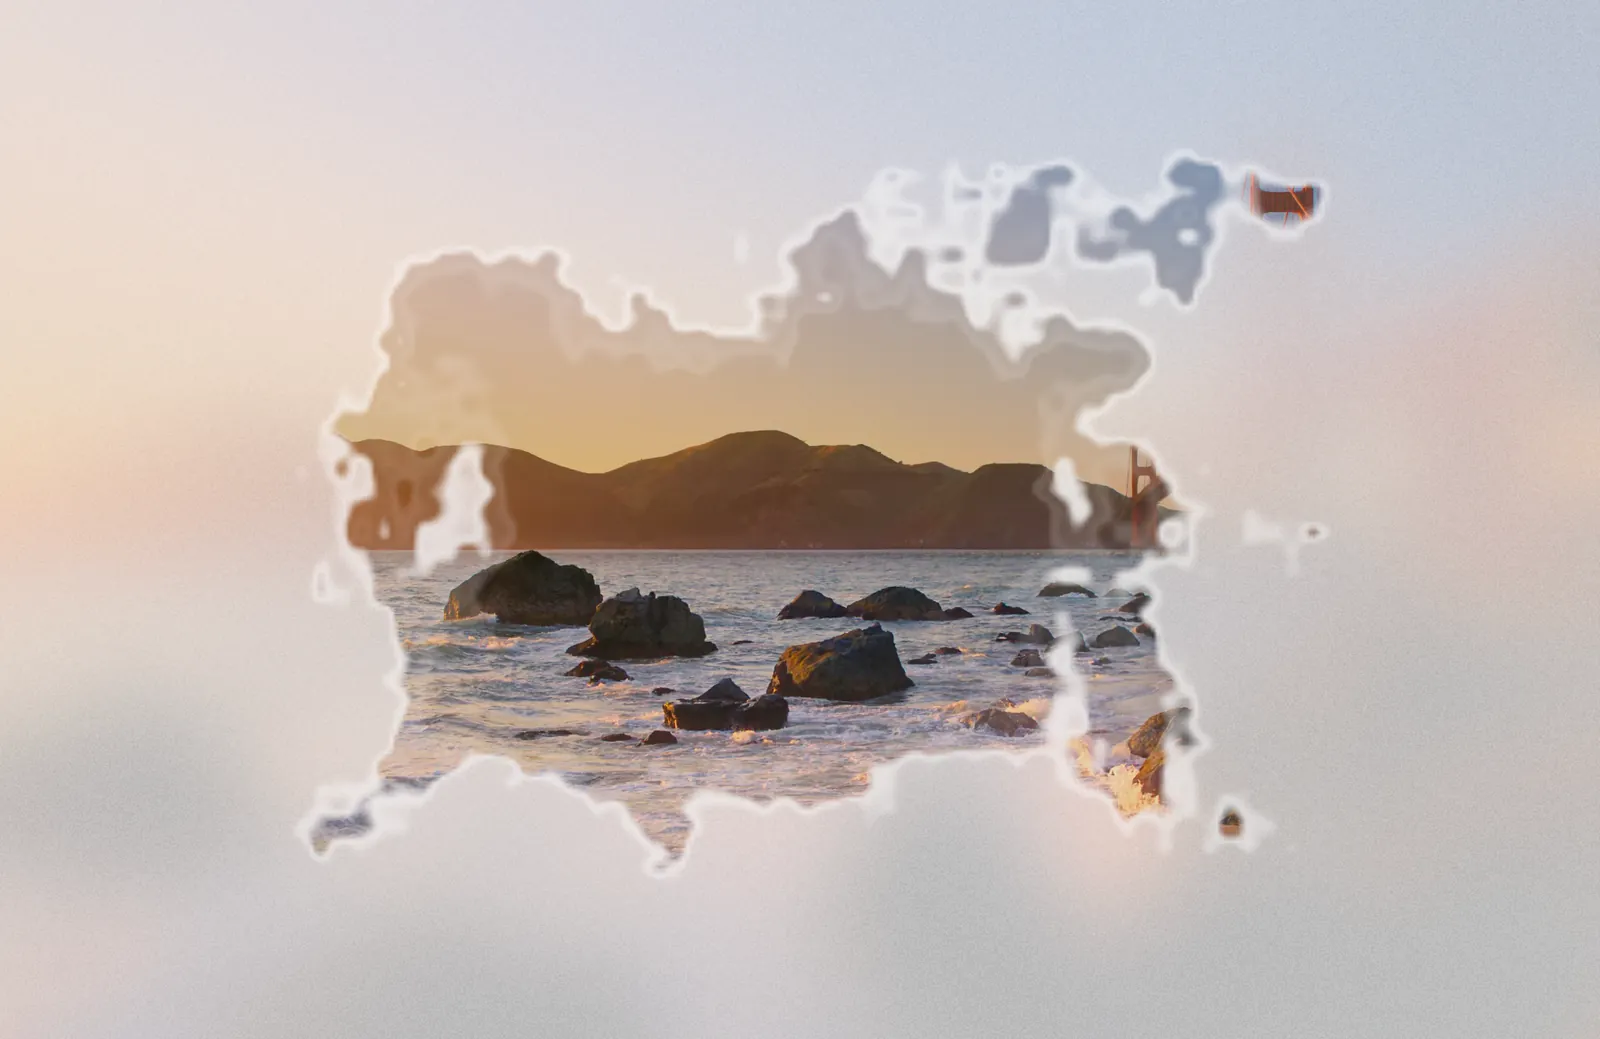
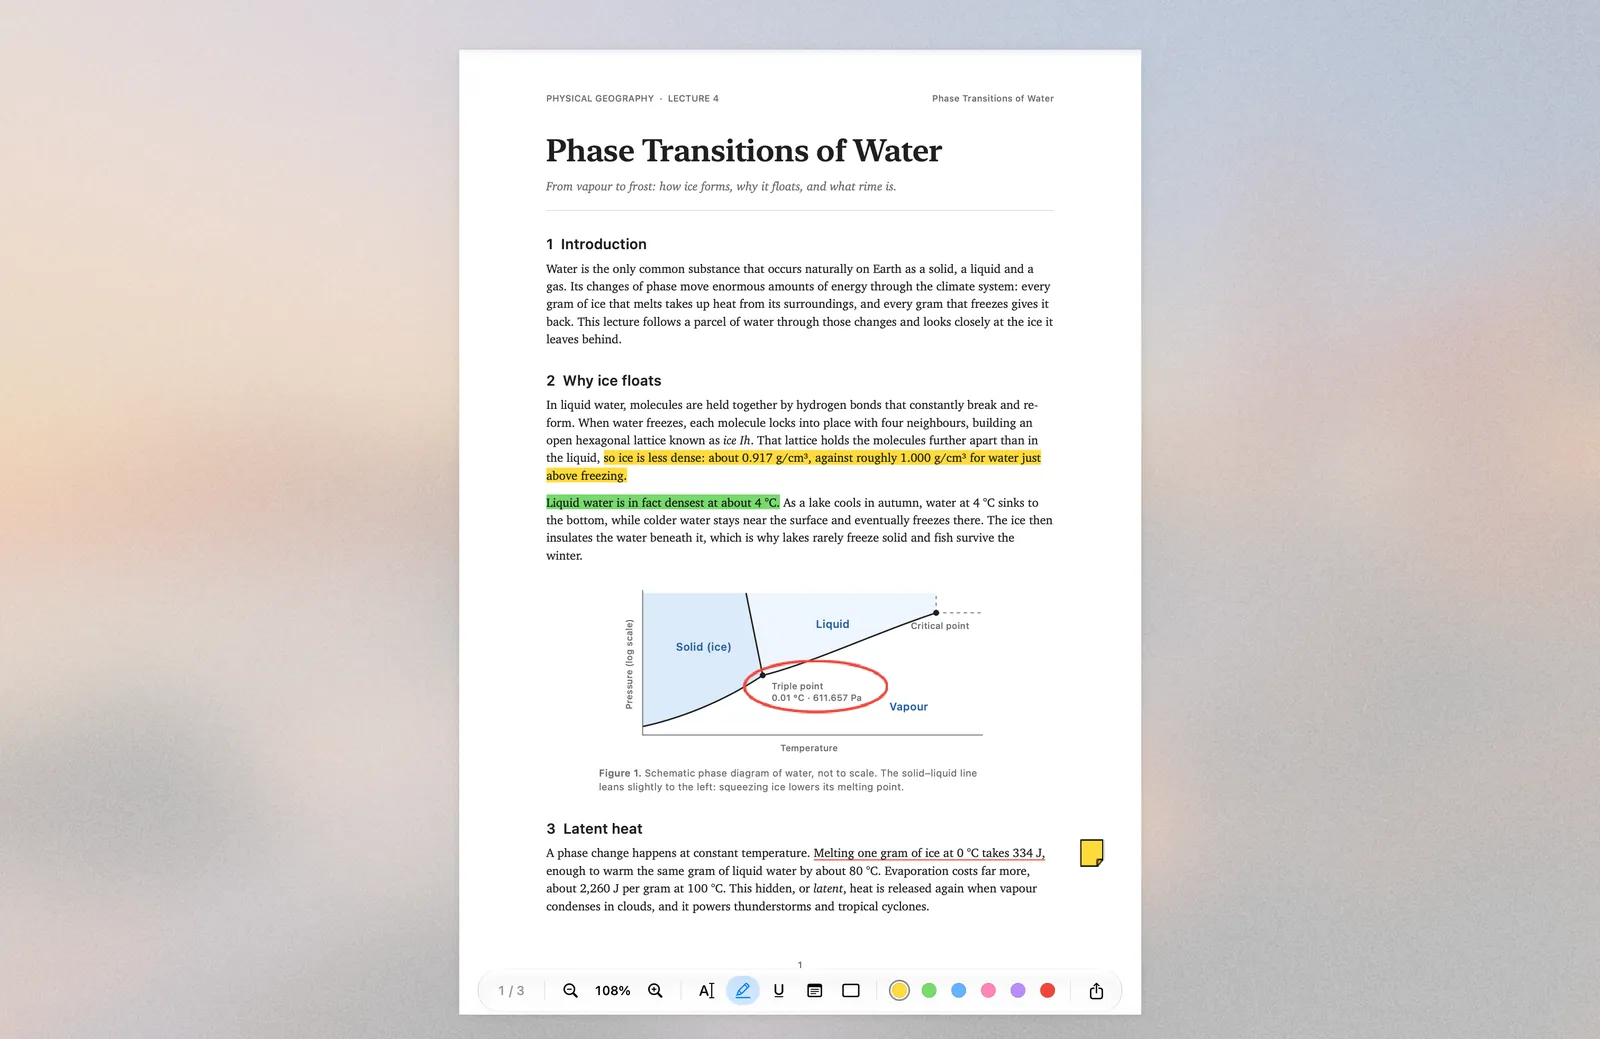
Centre the card pictures; Rime's card shows the reading view
Card screenshots no longer run off the right edge, Cockpit's card shows
the whole window and Waybill's cover includes the full Operations panel.

diff --git a/index.html b/index.html
@@ -159,7 +159,7 @@
             <p class="card-line">A PDF reader where only the page is left. Everything else on the screen freezes over.</p>
           </div>
           <div class="card-media media-mac">
-            <img src="assets/work/rime/cover.webp" width="1600" height="1039" alt="Frost closing in from the screen edges over the desktop" loading="lazy" decoding="async">
+            <img src="assets/work/rime/cover.webp" width="1600" height="1039" alt="A page of lecture notes on frosted ice, with Rime’s glass controls below it" loading="lazy" decoding="async">
           </div>
           <span class="card-open" aria-hidden="true"><svg viewBox="0 0 24 24"><path d="M7 17 17 7M9 7h8v8"/></svg></span>
         </a>
@@ -176,7 +176,7 @@
             <p class="card-line">My whole day in one window: agenda, mail that needs me, portfolio and music.</p>
           </div>
           <div class="card-media media-mac">
-            <img src="assets/work/cockpit/cover.webp" width="1600" height="1000" alt="Cockpit’s Today screen with the day dial" loading="lazy" decoding="async">
+            <img src="assets/work/cockpit/today.webp" width="2000" height="1250" alt="Cockpit’s Today screen with the day dial" loading="lazy" decoding="async">
           </div>
           <span class="card-open" aria-hidden="true"><svg viewBox="0 0 24 24"><path d="M7 17 17 7M9 7h8v8"/></svg></span>
         </a>

diff --git a/style.css b/style.css
@@ -221,7 +221,7 @@ ul { padding: 0; list-style: none; }
   transform: translateY(10px); transition: transform 0.7s var(--spring);
 }
 .card:hover .card-media img { transform: translateY(0) scale(1.012); }
-.card .media-mac img { width: calc(100% + var(--pad)); border-radius: 12px 0 0 0; }
+.card .media-mac img { border-radius: 12px 12px 0 0; }
 .card .media-ipad img { border-radius: 16px 16px 0 0; }
 
 .card-tall .card-media { container-type: inline-size; }
@@ -233,7 +233,7 @@ ul { padding: 0; list-style: none; }
 .card-wide { --h: 440px; flex-direction: row; gap: 40px; }
 .card-wide .card-text { flex: 0 0 32%; align-self: center; padding-bottom: var(--pad); }
 .card-wide .card-media { margin-top: 12px; }
-.card-wide .card-media img { width: calc(100% + var(--pad)); border-radius: 16px 0 0 0; }
+.card-wide .card-media img { border-radius: 16px 16px 0 0; }
 
 .card-open {
   position: absolute; top: 22px; right: 22px; width: 40px; height: 40px; border-radius: 50%;
